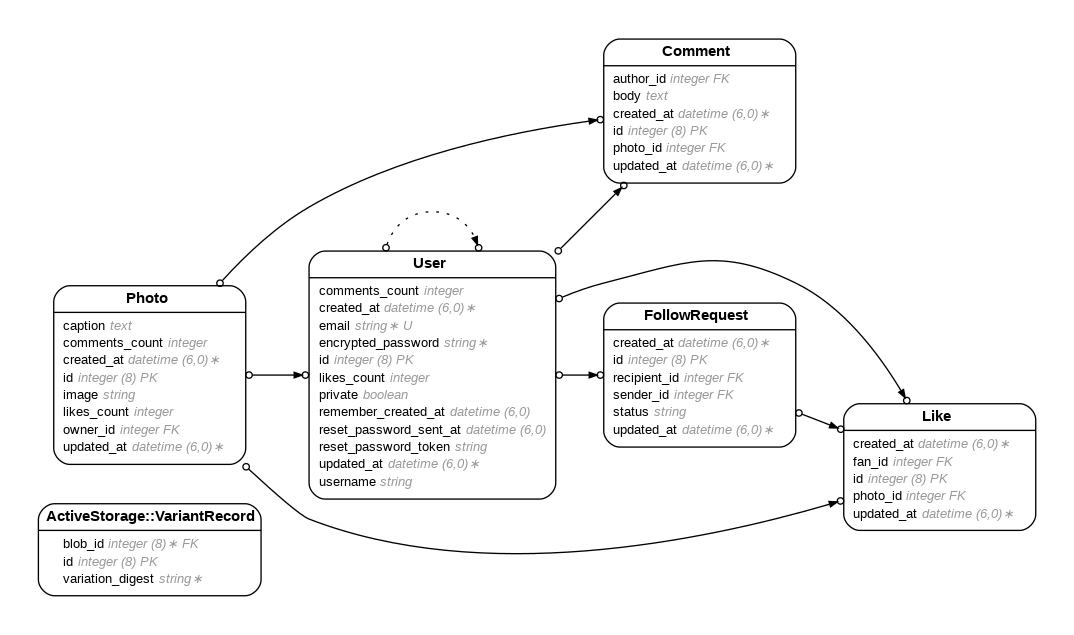
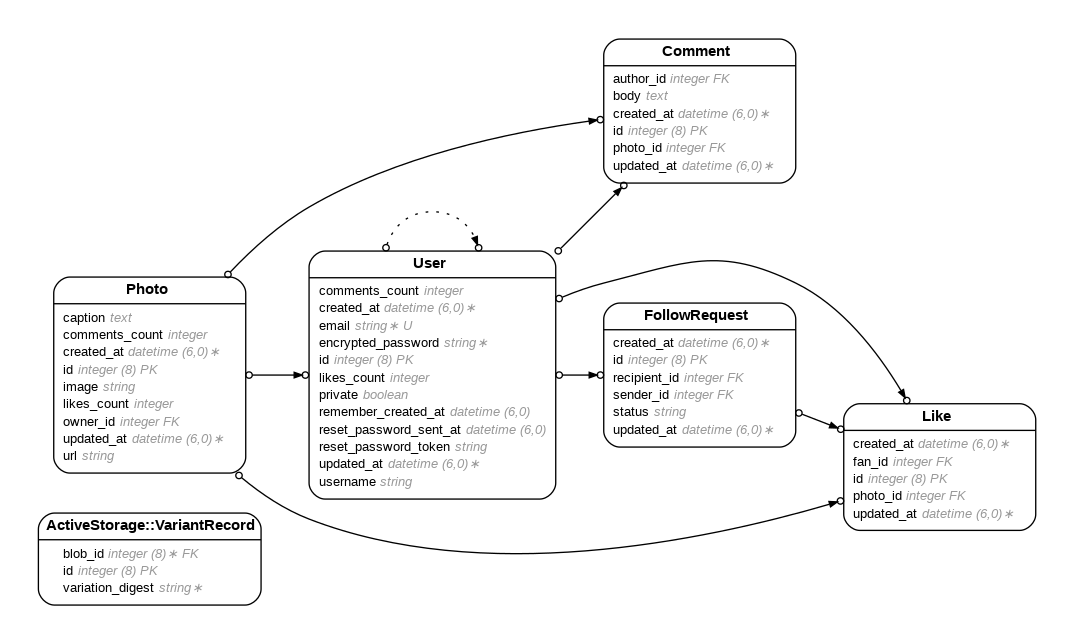
fix

diff --git a/app/uploaders/image_uploader.rb b/app/uploaders/image_uploader.rb
@@ -1,0 +1,47 @@
+class ImageUploader < CarrierWave::Uploader::Base
+  # Include RMagick or MiniMagick support:
+  # include CarrierWave::RMagick
+  # include CarrierWave::MiniMagick
+  include Cloudinary::CarrierWave
+
+  # Choose what kind of storage to use for this uploader:
+  # storage :fog
+
+  # Override the directory where uploaded files will be stored.
+  # This is a sensible default for uploaders that are meant to be mounted:
+  def store_dir
+    "uploads/#{model.class.to_s.underscore}/#{mounted_as}/#{model.id}"
+  end
+
+  # Provide a default URL as a default if there hasn't been a file uploaded:
+  # def default_url(*args)
+  #   # For Rails 3.1+ asset pipeline compatibility:
+  #   # ActionController::Base.helpers.asset_path("fallback/" + [version_name, "default.png"].compact.join('_'))
+  #
+  #   "/images/fallback/" + [version_name, "default.png"].compact.join('_')
+  # end
+
+  # Process files as they are uploaded:
+  # process scale: [200, 300]
+  #
+  # def scale(width, height)
+  #   # do something
+  # end
+
+  # Create different versions of your uploaded files:
+  # version :thumb do
+  #   process resize_to_fit: [50, 50]
+  # end
+
+  # Add an allowlist of extensions which are allowed to be uploaded.
+  # For images you might use something like this:
+  # def extension_allowlist
+  #   %w(jpg jpeg gif png)
+  # end
+
+  # Override the filename of the uploaded files:
+  # Avoid using model.id or version_name here, see uploader/store.rb for details.
+  # def filename
+  #   "something.jpg"
+  # end
+end

diff --git a/app/uploaders/url_uploader.rb b/app/uploaders/url_uploader.rb
@@ -1,0 +1,47 @@
+class UrlUploader < CarrierWave::Uploader::Base
+  # Include RMagick or MiniMagick support:
+  # include CarrierWave::RMagick
+  # include CarrierWave::MiniMagick
+
+  # Choose what kind of storage to use for this uploader:
+  storage :file
+  # storage :fog
+
+  # Override the directory where uploaded files will be stored.
+  # This is a sensible default for uploaders that are meant to be mounted:
+  def store_dir
+    "uploads/#{model.class.to_s.underscore}/#{mounted_as}/#{model.id}"
+  end
+
+  # Provide a default URL as a default if there hasn't been a file uploaded:
+  # def default_url(*args)
+  #   # For Rails 3.1+ asset pipeline compatibility:
+  #   # ActionController::Base.helpers.asset_path("fallback/" + [version_name, "default.png"].compact.join('_'))
+  #
+  #   "/images/fallback/" + [version_name, "default.png"].compact.join('_')
+  # end
+
+  # Process files as they are uploaded:
+  # process scale: [200, 300]
+  #
+  # def scale(width, height)
+  #   # do something
+  # end
+
+  # Create different versions of your uploaded files:
+  # version :thumb do
+  #   process resize_to_fit: [50, 50]
+  # end
+
+  # Add an allowlist of extensions which are allowed to be uploaded.
+  # For images you might use something like this:
+  # def extension_allowlist
+  #   %w(jpg jpeg gif png)
+  # end
+
+  # Override the filename of the uploaded files:
+  # Avoid using model.id or version_name here, see uploader/store.rb for details.
+  # def filename
+  #   "something.jpg"
+  # end
+end

diff --git a/app/models/photo.rb b/app/models/photo.rb
@@ -12,7 +12,8 @@
 #  owner_id       :integer
 #
 class Photo < ApplicationRecord
-  
+  mount_uploader :image, ImageUploader
+
   has_many(:likes, :class_name => "Like", :foreign_key => "photo_id", :dependent => :destroy)
   belongs_to(:poster, :required => false, :class_name => "User", :foreign_key => "owner_id" ,primary_key: "id")
   has_many(:comments, :class_name => "Comment", :foreign_key => "photo_id", :dependent => :destroy)

diff --git a/config/initializers/cloudinary.rb b/config/initializers/cloudinary.rb
@@ -1,0 +1,6 @@
+Cloudinary.config do |config|
+  config.cloud_name = ENV.fetch("CLOUDINARY_CLOUD_NAME")
+  config.api_key = ENV.fetch("CLOUDINARY_API_KEY")
+  config.api_secret = ENV.fetch("CLOUDINARY_API_SECRET")
+  config.cdn_subdomain = true
+end

diff --git a/config/environment.rb b/config/environment.rb
@@ -1,5 +1,7 @@
 # Load the Rails application.
 require_relative "application"
+require "carrierwave"
+require "carrierwave/orm/activerecord"
 
 # Initialize the Rails application.
 Rails.application.initialize!

diff --git a/config/initializers/carrierwave.rb b/config/initializers/carrierwave.rb
@@ -1,0 +1,3 @@
+CarrierWave.configure do |config|
+  config.cache_storage = :file
+end
